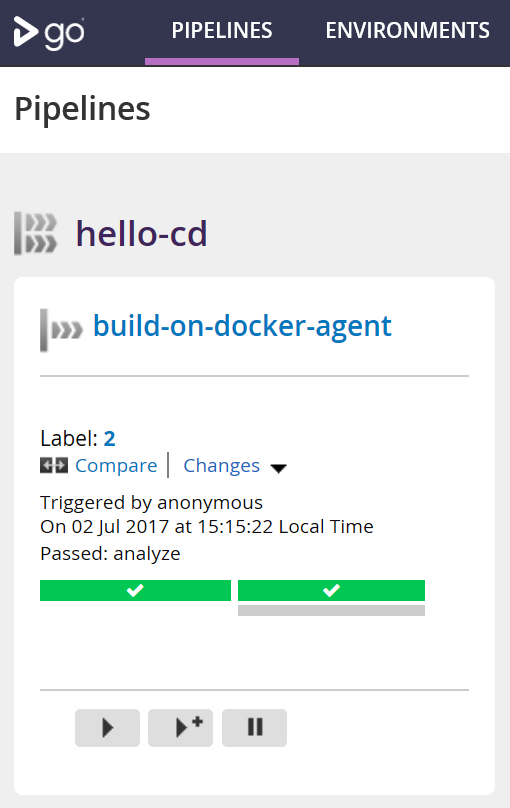
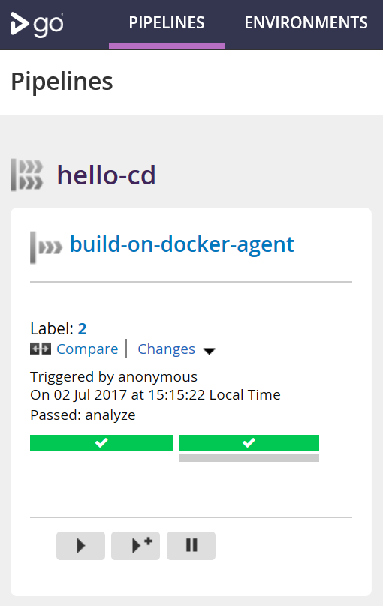
Made pipeline-image smaller, again...

diff --git a/README.md b/README.md
@@ -22,7 +22,7 @@ When all is done, you can run _``docker ps``_ to verify that three containers ar
 
 Within a minute when the server has spun up, go to [localhost](http://localhost:8153/go) and you should see the pipeline:
 
-<img src="./examples/pipeline.png" alt="Drawing" style="width: 130px;"/>
+<img src="./examples/pipeline.png" alt="Drawing" style="width: 100px;"/>
 
 Each run can be inspected, and stuff like [code coverage](http://localhost:8153/go/tab/build/detail/build-on-docker-agent/1/analyze/1/code-analysis#) can be viewed in ([custom](./gocd/config.gocd.yaml#L32)) tabs:
 
